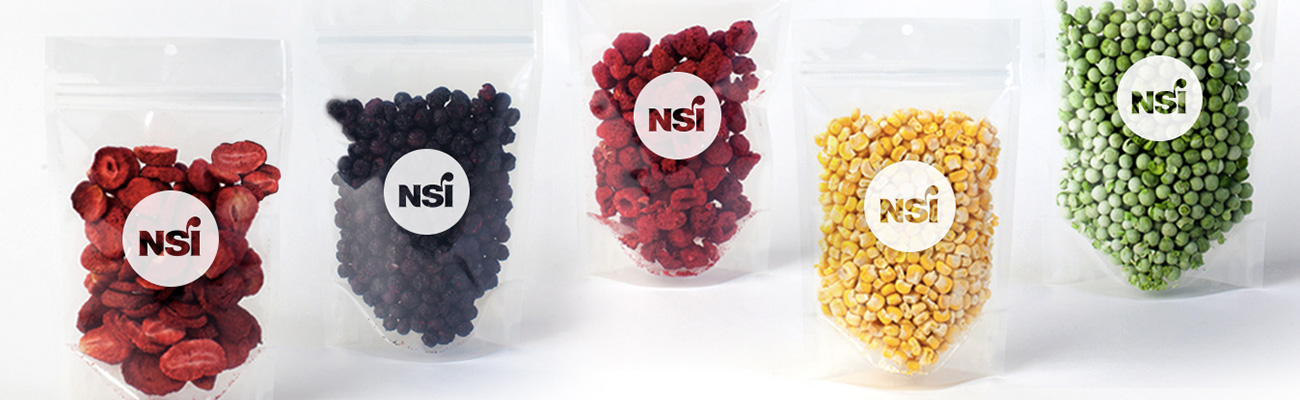
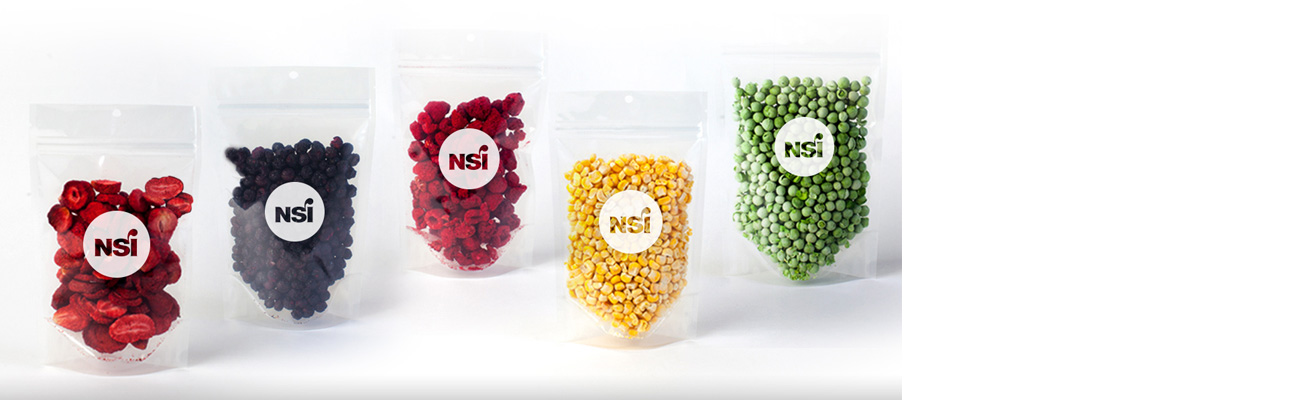
New images

diff --git a/index.php b/index.php
@@ -110,52 +110,52 @@ get_header(); ?>
 
 			<div class="grid-best-seller">
 				<div class="grid-best-seller-item">
-					<h3>Product 1</h3>
-					<img src="<?php bloginfo('template_directory'); ?>/img/grid-best-sellers/grid-item-1.jpg" alt="">
+					<h3>Chia Seeds</h3>
+					<img src="<?php bloginfo('template_directory'); ?>/img/grid-best-sellers/Chia.jpg" alt="">
 				</div><!--
 			--><div class="grid-best-seller-item">
-					<h3>Product 2</h3>
-					<img src="<?php bloginfo('template_directory'); ?>/img/grid-best-sellers/grid-item-2.jpg" alt="">
+					<h3>Goji Berries</h3>
+					<img src="<?php bloginfo('template_directory'); ?>/img/grid-best-sellers/Goji_Berries.jpg" alt="">
 				</div><!--
 			--><div class="grid-best-seller-item">
-					<h3>Product 3</h3>
-					<img src="<?php bloginfo('template_directory'); ?>/img/grid-best-sellers/grid-item-3.jpg" alt="">
+					<h3>Cacao Beans</h3>
+					<img src="<?php bloginfo('template_directory'); ?>/img/grid-best-sellers/Cacao.jpg" alt="">
 				</div><!--
 			--><div class="grid-best-seller-item">
-					<h3>Product 4</h3>
-					<img src="<?php bloginfo('template_directory'); ?>/img/grid-best-sellers/grid-item-4.jpg" alt="">
+					<h3>Coconut</h3>
+					<img src="<?php bloginfo('template_directory'); ?>/img/grid-best-sellers/Coconut.jpg" alt="">
 				</div><!--
 			--><div class="grid-best-seller-item">
-					<h3>Product 5</h3>
-					<img src="<?php bloginfo('template_directory'); ?>/img/grid-best-sellers/grid-item-5.jpg" alt="">
+					<h3>Freezed Dried Apple</h3>
+					<img src="<?php bloginfo('template_directory'); ?>/img/grid-best-sellers/Apple.jpg" alt="">
 				</div><!--
 			--><div class="grid-best-seller-item">
-					<h3>Product 6</h3>
-					<img src="<?php bloginfo('template_directory'); ?>/img/grid-best-sellers/grid-item-6.jpg" alt="">
+					<h3>Freezed Dried BlueBerries</h3>
+					<img src="<?php bloginfo('template_directory'); ?>/img/grid-best-sellers/BlueBeries.jpg" alt="">
 				</div><!--
 			--><div class="grid-best-seller-item">
-					<h3>Product 7</h3>
-					<img src="<?php bloginfo('template_directory'); ?>/img/grid-best-sellers/grid-item-7.jpg" alt="">
+					<h3>Freezed Dried Corn</h3>
+					<img src="<?php bloginfo('template_directory'); ?>/img/grid-best-sellers/Corn.jpg" alt="">
 				</div><!--
 			--><div class="grid-best-seller-item">
-					<h3>Product 8</h3>
-					<img src="<?php bloginfo('template_directory'); ?>/img/grid-best-sellers/grid-item-8.jpg" alt="">
+					<h3>Freezed Dried Bananas</h3>
+					<img src="<?php bloginfo('template_directory'); ?>/img/grid-best-sellers/Banana.jpg" alt="">
 				</div><!--
 			--><div class="grid-best-seller-item">
-					<h3>Product 9</h3>
-					<img src="<?php bloginfo('template_directory'); ?>/img/grid-best-sellers/grid-item-9.jpg" alt="">
+					<h3>Freezed Dried Strawberries</h3>
+					<img src="<?php bloginfo('template_directory'); ?>/img/grid-best-sellers/Strawberries.jpg" alt="">
 				</div><!--
 			--><div class="grid-best-seller-item">
-					<h3>Product 10</h3>
-					<img src="<?php bloginfo('template_directory'); ?>/img/grid-best-sellers/grid-item-10.jpg" alt="">
+					<h3>Freezed Dried Peas</h3>
+					<img src="<?php bloginfo('template_directory'); ?>/img/grid-best-sellers/Peas.jpg" alt="">
 				</div><!--
 			--><div class="grid-best-seller-item">
-					<h3>Product 11</h3>
-					<img src="<?php bloginfo('template_directory'); ?>/img/grid-best-sellers/grid-item-11.jpg" alt="">
+					<h3>Hemp Seeds</h3>
+					<img src="<?php bloginfo('template_directory'); ?>/img/grid-best-sellers/Hemp_Seeds.jpg" alt="">
 				</div><!--
 			--><div class="grid-best-seller-item">
-					<h3>Product 12</h3>
-					<img src="<?php bloginfo('template_directory'); ?>/img/grid-best-sellers/grid-item-12.jpg" alt="">
+					<h3>Freezed Dried Raspberries</h3>
+					<img src="<?php bloginfo('template_directory'); ?>/img/grid-best-sellers/Raspberries.jpg" alt="">
 				</div>
 			</div>
 

diff --git a/taxonomy-freeze-dried.php b/taxonomy-freeze-dried.php
@@ -1,0 +1,68 @@
+<?php
+/**
+ * The template for displaying Archive pages.
+ *
+ * Learn more: http://codex.wordpress.org/Template_Hierarchy
+ *
+ * @package nsi
+ */
+
+get_header(); ?>
+
+	<section id="primary" class="content-area">
+		<main id="main" class="site-main" role="main">
+
+			<div class="breadcrumb">
+				<img src="<?php bloginfo('template_directory'); ?>/img/image-header-superfood.jpg" alt="flowers">
+
+				<?php 
+					//list terms in a given taxonomy using wp_list_categories (also useful as a widget if using a PHP Code plugin)
+					$args = array(
+					'taxonomy'     => 'freeze-dried',
+					'orderby'      => 'name',
+					'hierarchical' => 1, //1 for yes, 0 for no
+					'title_li'     => '',
+					'hide_empty'   => '0'
+					);
+				?>
+
+				<ul>
+					<?php wp_list_categories( $args ); ?>
+				</ul>
+			</div>
+
+			<header class="page-header">
+				<h1 class="page-title">
+					<?php
+						if( is_tax() ) :
+							global $wp_query;
+							$term = $wp_query->get_queried_object();
+							$title = $term->name;
+							printf( '%s', $title );
+
+						else :
+							_e( 'Archives', 'nsi' );
+
+						endif;
+					?>
+				</h1>
+				<img src="<?php bloginfo('template_directory'); ?>/img/bandeau-gris.svg" alt="bandeau gris" class="page-title-background">
+			</header><!-- .page-header -->
+
+			<?php /* Start the Loop */ ?>
+			<?php while ( have_posts() ) : the_post(); ?>
+
+				<?php
+					/* Include the Post-Format-specific template for the content.
+					 * If you want to override this in a child theme, then include a file
+					 * called content-___.php (where ___ is the Post Format name) and that will be used instead.
+					 */
+					get_template_part( 'content', get_post_format() );
+				?>
+
+			<?php endwhile; ?>
+
+		</main><!-- #main -->
+	</section><!-- #primary -->
+
+<?php get_footer(); ?>

diff --git a/template-jobs.php b/template-jobs.php
@@ -1,0 +1,65 @@
+<?php
+/*
+Template Name: Careers
+*/
+
+get_header(); ?>
+
+
+	<div id="primary" class="content-area">
+		<main id="main" class="site-main" role="main">
+
+			<?php while ( have_posts() ) : the_post(); ?>
+
+				<div class="breadcrumb">
+					<img src="<?php bloginfo('template_directory'); ?>/img/image-header-privat-brand.jpg" alt="image header privat brand">
+					
+					<?php 
+
+						$args = array(
+						'child_of'     => $post->post_parent,
+						'post_type'    => 'page',
+						'title_li'     => __(''), 
+					); ?>
+
+					<ul>
+						<?php wp_list_pages( $args ); ?>
+					</ul>
+				</div><!-- breadcrumb  -->
+
+				<article id="post-<?php the_ID(); ?>" <?php post_class('steps'); ?>>
+				
+					<header class="page-header">
+						<h1 class="page-title"><?php the_title();?></h1>
+						<img src="<?php bloginfo('template_directory'); ?>/img/bandeau-gris.svg" alt="bandeau gris" class="page-title-background">
+					</header><!-- .page-header -->		
+
+					<div class="entry-content">
+						
+						<?php
+							$args2 = array(
+								'post_type' 		=> 'job',			//Costum type Proyectos			
+								'order'				=> 'DESC',			// List in ascending order
+								'orderby'      		=> 'id',			// List them in their menu order
+								'posts_per_page'	=>   -1, 			// Show the last one
+							);
+
+							$jobsQuery = new WP_Query($args2);
+						?>
+
+
+						<?php /* Start the Loop */ ?>
+						<?php while ($jobsQuery->have_posts()) : $jobsQuery->the_post(); ?>
+							<?php the_title(); ?>
+						<?php endwhile; ?>
+
+					</div><!-- .entry-content -->
+
+				</article>
+
+			<?php endwhile; // end of the loop. ?>
+
+		</main><!-- #main -->
+	</div><!-- #primary -->
+
+<?php get_footer(); ?>
